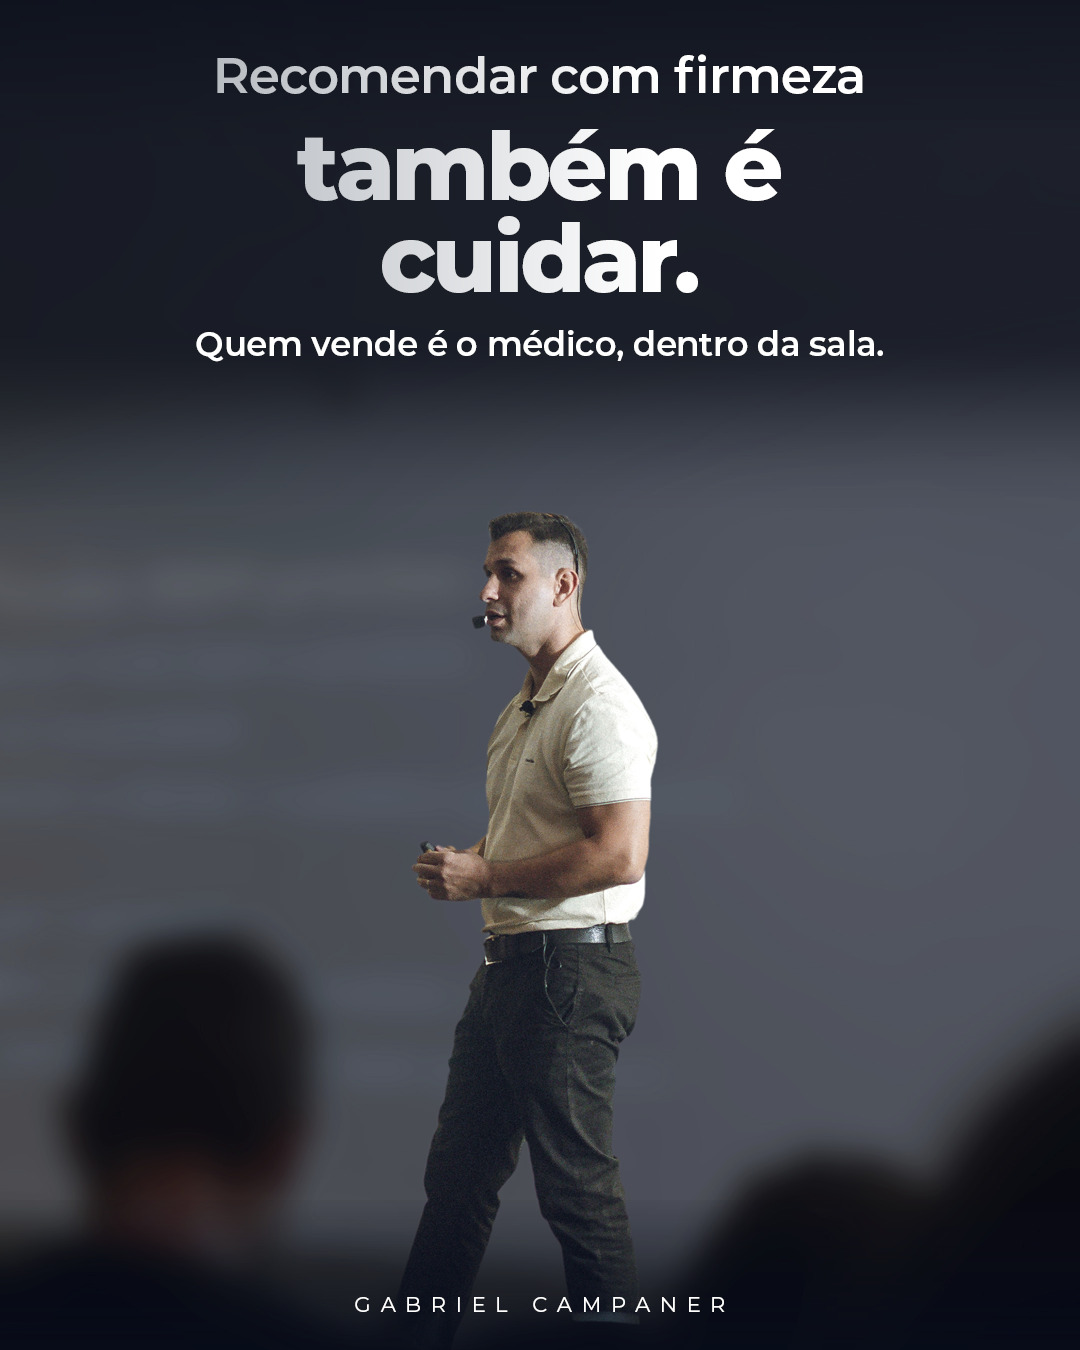
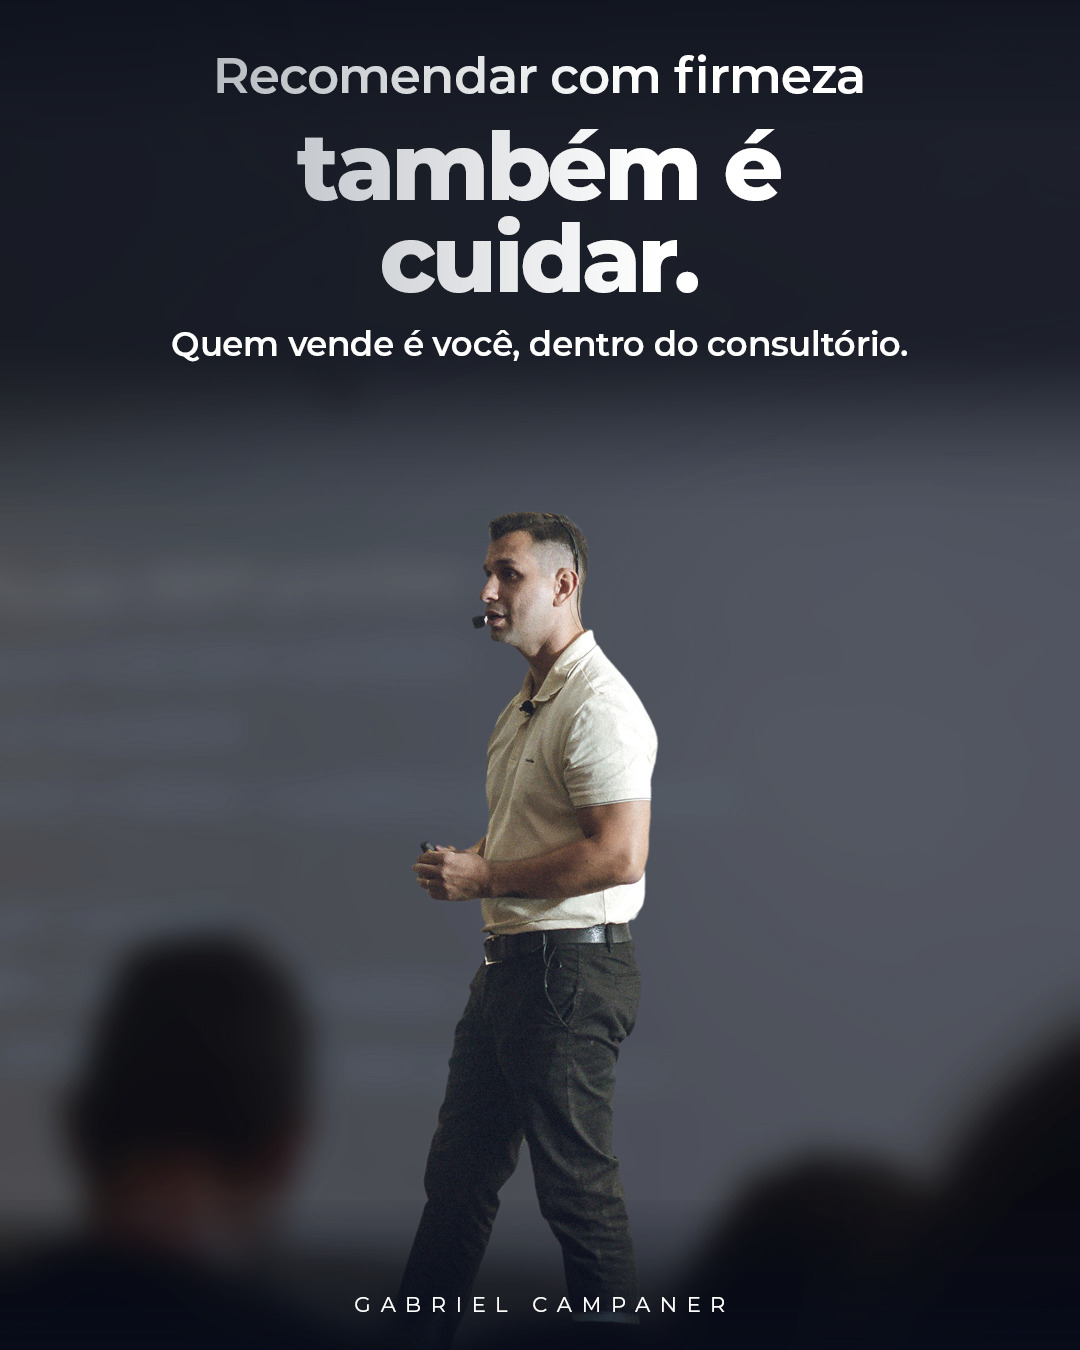
Calendário: ODM25 fala com todas as áreas
"Quem vende é você, dentro do consultório", na arte e na legenda.

Changed region(s): [[0.1528, 0.2489, 0.825, 0.28]]

diff --git a/AGENDA.md b/AGENDA.md
@@ -1,6 +1,6 @@
 # Agenda do Instagram da GC
 
-Gerada em 06/11/2026, 12:05:09. 280 posts agendados, 3 pendentes. Stories com enquete e caixinha são feitos à mão, no dia do post.
+Gerada em 06/11/2026, 12:47:59. 279 posts agendados, 3 pendentes. Stories com enquete e caixinha são feitos à mão, no dia do post.
 
 
 ## terça, 20/10
@@ -138,7 +138,7 @@ Gerada em 06/11/2026, 12:05:09. 280 posts agendados, 3 pendentes. Stories com en
 
 - **08h30 · L3-35 · 34% com falta acima de 11%** (imagem) · publicado: https://www.instagram.com/p/DfZgLDIm5qE/
   - Stories: Enquete: "A sua taxa de faltas passa de 11%?" · Passa / Não passa / Não sei.
-- **12h30 · OD07 · Os Doutores · Notícia: a 5x2 na clínica que abre sábado** (carrossel)
+- **12h30 · OD07 · Os Doutores · Notícia: a 5x2 na clínica que abre sábado** (carrossel) · publicado: https://www.instagram.com/p/DfZ7sjxkcJL/
   - Lembrete: Ative o rótulo de IA no post publicado (a API não marca).
 - **15h00 · ODJ02 · Os Doutores · Vesti o teu jaleco: recepção e enfermagem sem se falar há três dias** (carrossel)
   - Lembrete: Ative o rótulo de IA no post publicado (a API não marca).
